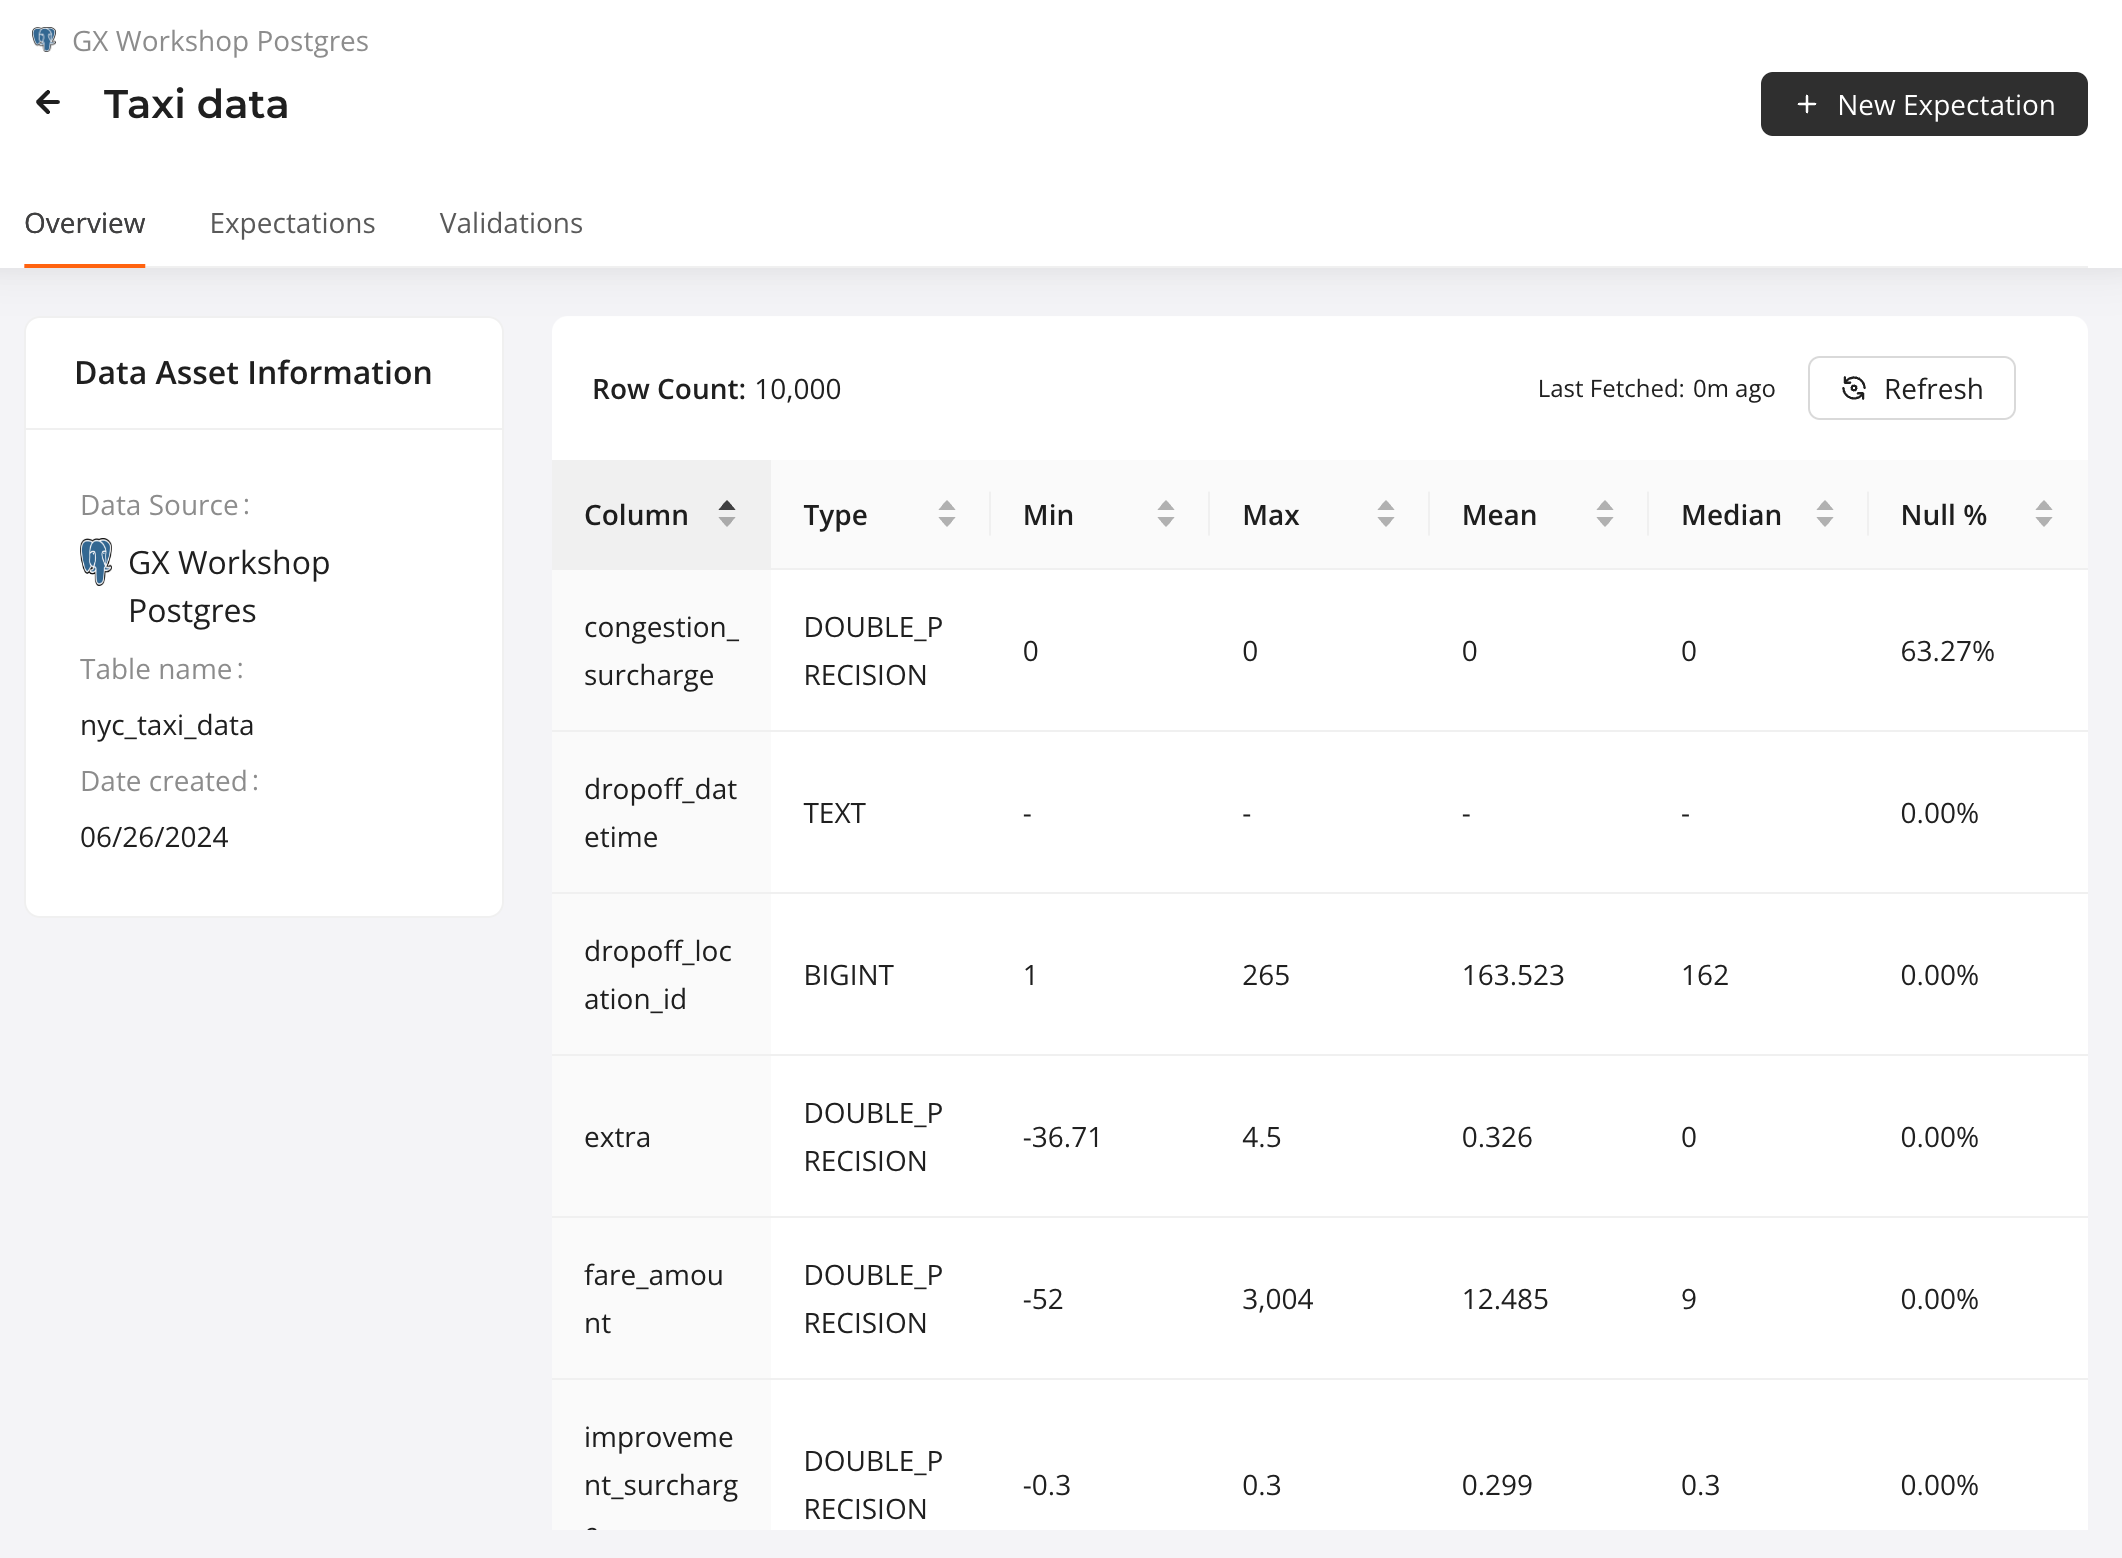
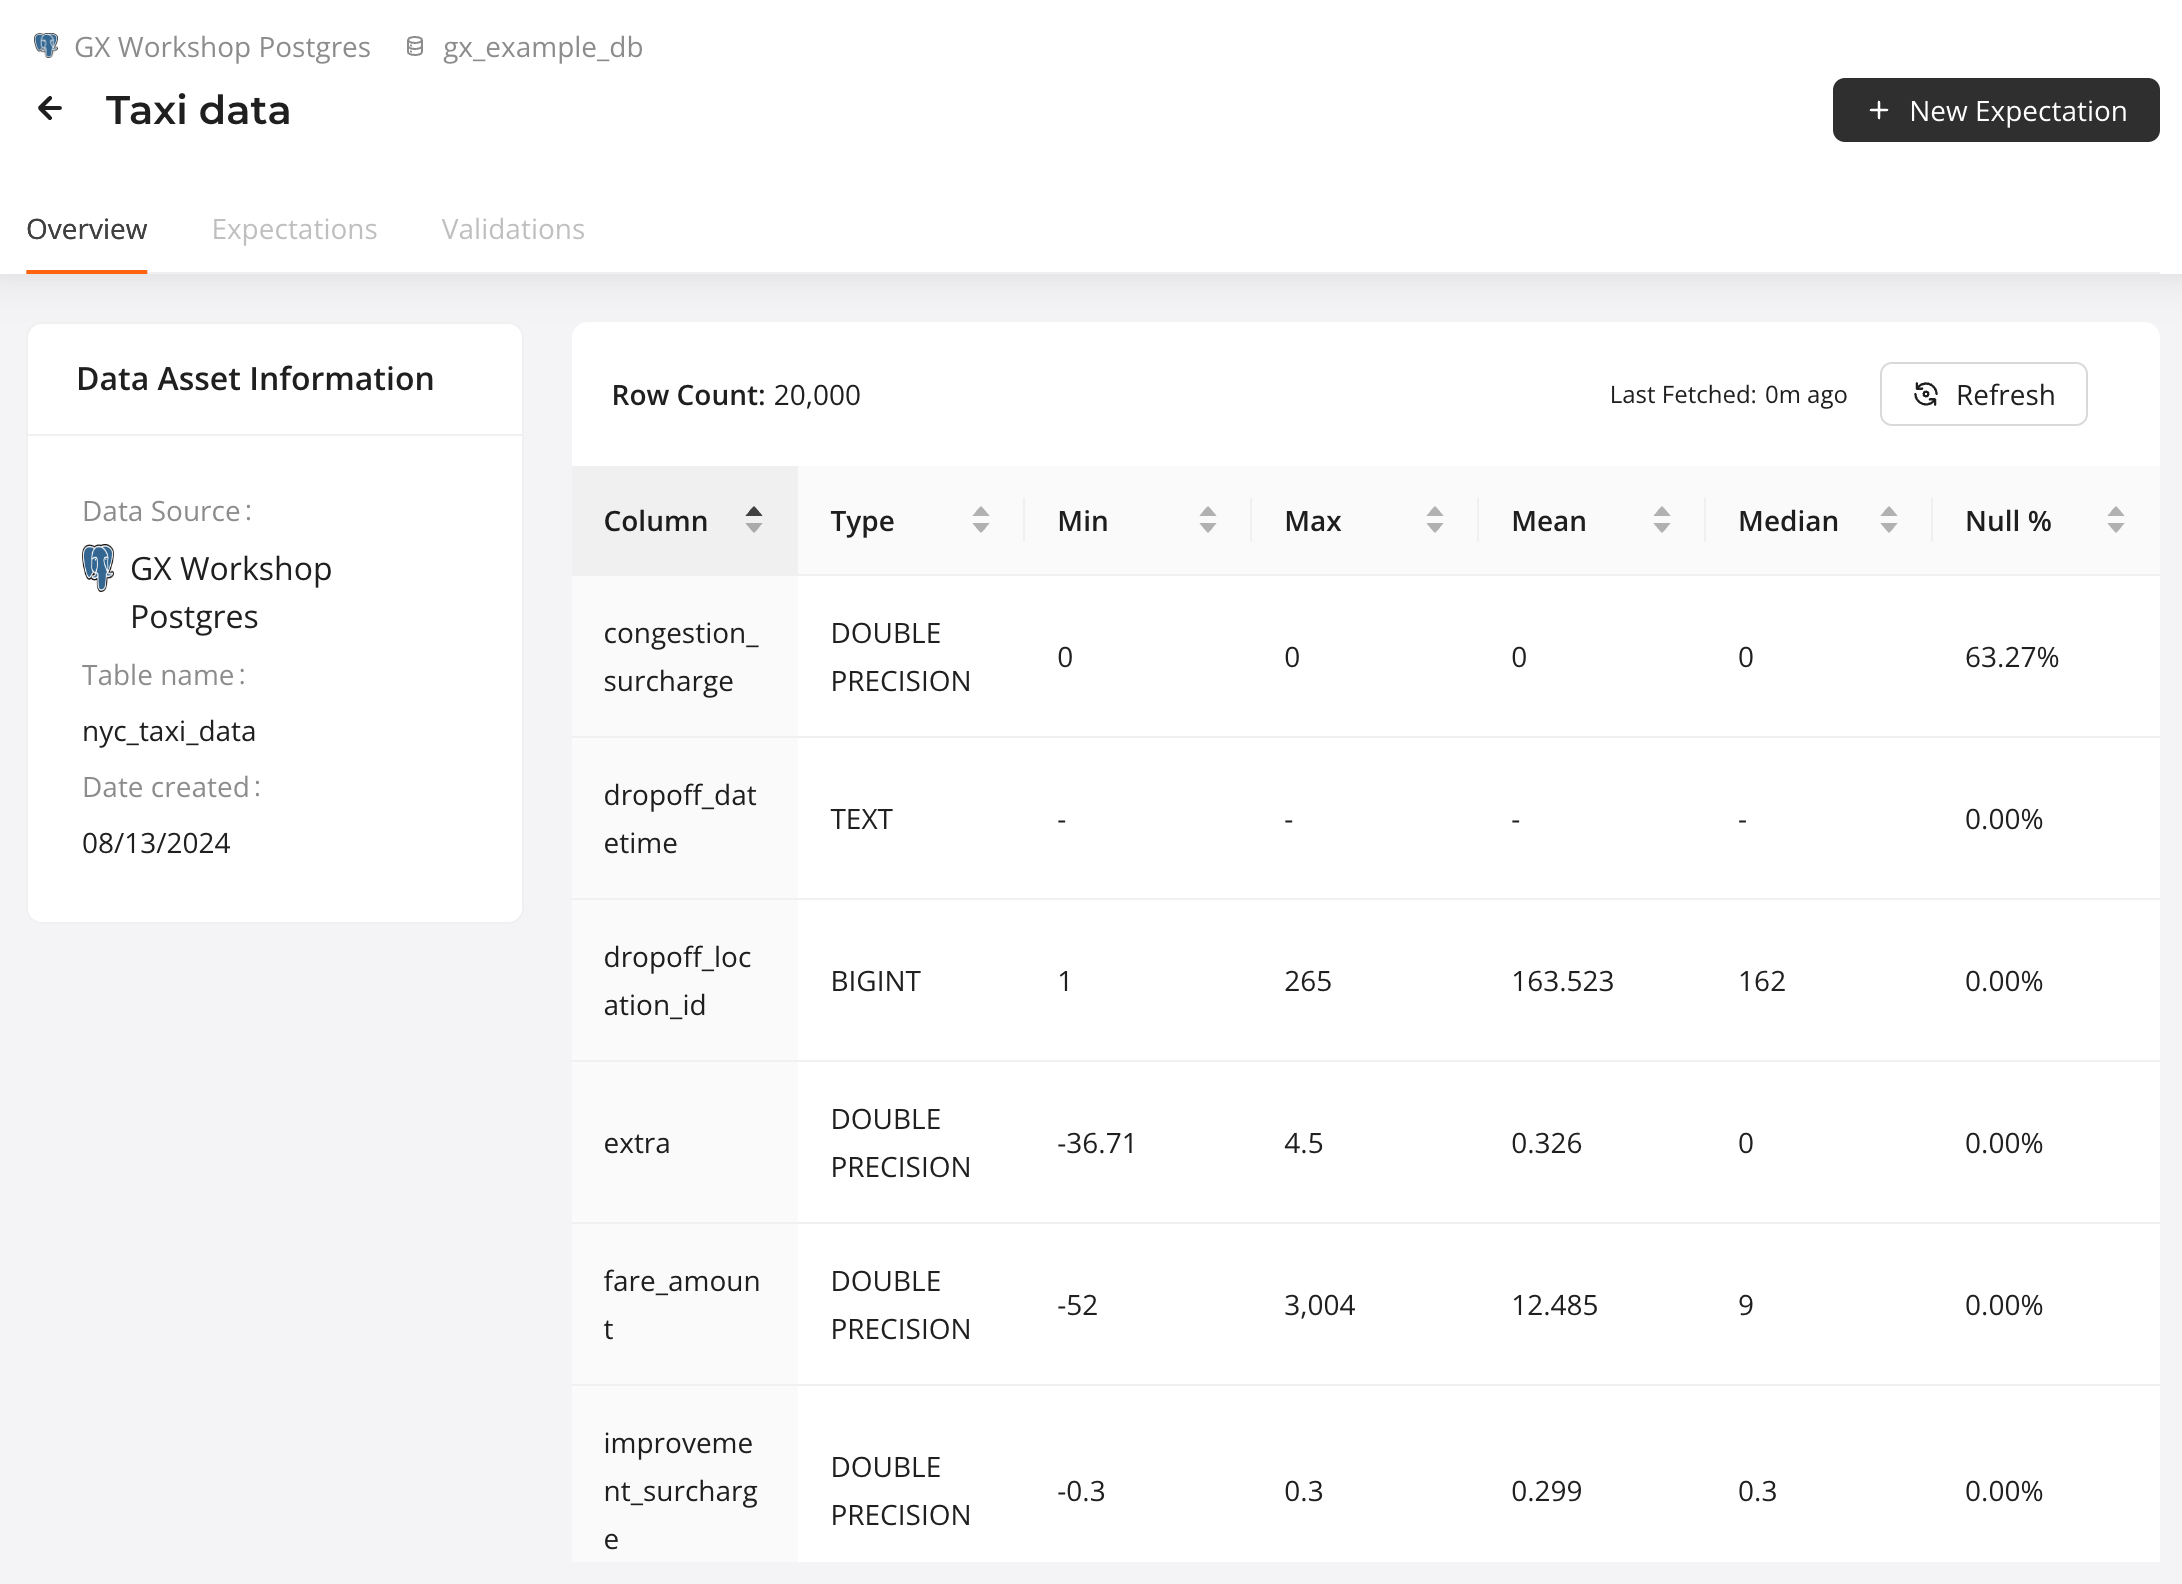
[DSB-1041] - update for latest GX Cloud
This commit updates the Postgres workshop to reflect changes in the
latest GX Cloud UI and product features.

diff --git a/get_started_with_gx_cloud_and_postgres/workshop.md b/get_started_with_gx_cloud_and_postgres/workshop.md
@@ -1,25 +1,23 @@
 # Get Started with GX Cloud and Postgres
 
-*This workshop content is current as of 26 June 2024.*
+*This workshop content is current as of 13 August 2024.*
 
 Welcome to our workshop! In this workshop, you'll learn how to connect your GX Cloud account to a Postgres Data Source, create Expectations, and run Validations.
 
 ## Prerequisites
 - A [GX Cloud](https://hubl.li/Q02ng2Jx0) account with Admin or Editor permissions.
-- [Docker Desktop](https://docs.docker.com/get-docker/) installed and [running](https://docs.docker.com/config/daemon/troubleshoot/#check-whether-docker-is-running) on the computer you're using for the workshop.
 - [git](https://git-scm.com/) installed on the computer you're using for this workshop.
+- A publicly accessible PostgreSQL database.
 
 ## Agenda
 You'll complete the following tasks in this workshop:
 
 1. [Sign in to GX Cloud](#sign-in-to-gx-cloud)
-1. [Run the GX Agent and Postgres database](#run-the-gx-agent-and-postgres-database)
 1. [Create a Postgres Data Source and Data Asset](#create-a-postgres-data-source-and-data-asset)
 1. [Create Expectations](#create-expectations)
 1. [Validate Expectations](#validate-a-data-asset)
 1. [Update the failing Expectation and run the Validation again](#update-the-failing-expectation-and-run-the-validation-again)
 1. [Fetch Metrics](#fetch-metrics)
-
 
 ## GX terminology
 If you're new to GX, an understanding of the following [GX terminology](https://docs.greatexpectations.io/docs/reference/learn/glossary#) will be helpful as you complete this workshop.
@@ -29,52 +27,8 @@ If you're new to GX, an understanding of the following [GX terminology](https://
 ## Sign in to GX Cloud
 Sign in to [GX Cloud](https://hubl.li/Q02ng2Jx0).
 
-## Run the GX Agent and Postgres database
-The GX Agent is an intermediary between GX Cloud and your data stores. GX Cloud does not connect directly to your data; all data access occurs within the GX Agent. The GX Agent receives jobs from GX Cloud, executes these jobs against your data, and then sends the job results back to GX Cloud. The GX Agent runs in an environment where it has access to your data. Today, you'll run it on your local machine using Docker.
-
-To learn more about the GX Agent and how it works with GX Cloud, [see our GX Cloud architecture documentation](https://docs.greatexpectations.io/docs/cloud/about_gx#gx-cloud-architecture).
-
-### Get your user access token and organization identifier
-To allow the GX Agent to connect to your GX Cloud organization, you need to supply a user access token and organization identifier.
-
-If you are logging into GX Cloud for the first time, you will be presented with the following screen:
-<img src="../common/img/gx_agent_setup_splash_screen.png" alt="GX Agent setup splash screen" style="width:600px;"><br>
-
-You will use these values in the next step.
-
-1. Copy the value in the **Access token** field and store it in a safe location.
-1. Copy the value in the **Organization ID** field and store it with the user access token.
-
-### Start the GX Agent
-You will use Docker Compose to start and run the GX Agent and Postgres database.
-
-**Run the GX Agent and Postgres database using Docker Compose**
-> 1. Clone this workshop repo to your local machine.
->  ```bash
-> git clone https://github.com/greatexpectationslabs/workshops.git
-> ```
-> 2. `cd` to the `get_started_with_gx_cloud_and_postgres` subdirectory of the cloned repo.
-> 3. Using the following  command, replace `<your-organization-id>` and `<your_access-token>` with the values of your GX Cloud organization ID and access token, respectively from earlier. Execute this command in your terminal.
->  ```bash
-> GX_CLOUD_ORGANIZATION_ID="<your-organization-id>" GX_CLOUD_ACCESS_TOKEN="<your-access-token>" docker compose up
-> ```
->
-> :warning: If you are running Docker on Windows, use the following command instead to correctly set the environment variables:
-> ```bash
-> set GX_CLOUD_ORGANIZATION_ID="<your-organization-id>" && set GX_CLOUD_ACCESS_TOKEN="<your-access-token>" && docker compose up
-> ```
-
-Before starting the GX Agent, Docker will download the latest GX Agent and Postgres image. This might take a few minutes. When it is done, the Docker Compose output in your terminal displays `The GX Agent is ready`.
-
-<img src="img/docker_compose_gx_agent_is_ready.png" alt="Running and ready GX Agent" style="width:500px;"/><br>
-
-Additionally, you will see the Active Agent indicator displayed in the GX Cloud menu.
-
-<img src="../common/img/active_agent_indicator.png" alt="Active Agent indicator" style="width:200px;"/><br>
-
-
 ## Create a Postgres Data Source and Data Asset
-With the GX Agent running, you can connect to Postgres from GX Cloud (via the GX Agent).
+You'll need to connect to Postgres from GX Cloud. We have set up a publicly available AWS RDS instance for workshop users.
 
 > **Create a Postgres Data Source**
 > 1. In GX Cloud, click **Data Assets** > **New Data Asset**, if this is your first time using GX Cloud, the **Data Assets** page will prompt to create a **Data Source**.
@@ -82,7 +36,7 @@ With the GX Agent running, you can connect to Postgres from GX Cloud (via the GX
 > 1. Click the **I have created a GX Cloud user with access permissions** checkbox (you do not need to create a user for this workshop) and then **Continue**.
 > 1. Configure the PostgreSQL **Data Source** connection:
 >    * In the **Data Source name** field, enter a name. For example, `GX Workshop Postgres`.
->    * In the **Connection string** field, enter `postgresql+psycopg2://example_user@db/gx_example_db`.
+>    * In the **Connection string** field, enter `postgresql+psycopg2://example_user:workshop_example_password@workshops-gx-cloud.cvqgq2g6er9a.us-east-1.rds.amazonaws.com/gx_example_db`
 > 1. Click **Connect**.
 
 <img src="img/pg_data_source_create_user.png" alt="Check the GX Cloud user box" style="width:600px;"/><br>
@@ -90,8 +44,7 @@ With the GX Agent running, you can connect to Postgres from GX Cloud (via the GX
 <img src="img/add_pg_data_source.png" alt="Add a Postgres Data Source" style="width:600px;"/><br>
 
 > **Configure the GX Workshop Postgres Data Asset**
-> 1. In the **Table Name** field, enter `nyc_taxi_data`.
-> 1. In the **Data Asset name** field, give your data Asset a name. For example, `Taxi data`.
+> 1. On the **Select tables to import** page, check the box next to `nyc_taxi_data`.
 > 1. Click **Finish**.
 
 <img src="img/add_pg_data_asset.png" alt="Add a Postgres Data Source" style="width:600px;"/><br>
@@ -101,7 +54,7 @@ Congratulations! You have successfully added a Postgres Data Asset to your GX Cl
 ## Create Expectations
 Expectations are a unique GX construct that enable you to make simple, declarative assertions about your data. You can think of Expectations as unit tests for your data. They make implicit assumptions about your data explicit, and they use self-explanatory language for describing data. Expectations can help you better understand your data and help you improve data quality.
 
-In GX Cloud, you create Expectations within an Expectation Suite, which is a collection of Expectations.
+In GX Cloud, you create Expectations for the Data Asset.
 
 The Postgres Data Asset table contains New York City (NYC) taxi data from January 2019. The [NYC Taxi data](https://www.nyc.gov/site/tlc/about/tlc-trip-record-data.page) is a popular set of open source data that contains records of completed taxi cab trips in NYC, including information such as pick up and drop off times, the number of passengers, the fare collected, and so on.
 
@@ -112,7 +65,7 @@ You'll create Expectations to validate the taxi data. New Expectations are selec
 Your first Expectation will expect that there is an associated vendor for each taxi trip. You expect that you should not see any null `vendor_id` values.
 
 > **Create your first Expectation**
-> 1. In the **Data Assets** list, click the `Taxi data` Data Asset.
+> 1. In the **Data Assets** list, click the `nyc_taxi_data` Data Asset.
 > 1. Click the **Overview** tab and then **New Expectation**.
 > 1. Click the **Expect Column Values To Not Be Null** Expectation.
 > 1. Create an Expectation that verifies that there is an associated vendor for each taxi trip:
@@ -177,7 +130,7 @@ When you fetch Metrics for a Data Asset, GX Cloud profiles the Data Asset throug
 
 > **Fetch Metrics for a Data Asset**
 > 1. Click the Data Asset **Overview** tab. Basic information about your Data Asset is displayed in the **Data Asset Information** pane.
-> 1. Click the **Profile Data** button.
+> 1. Click the **Fetch Schema** button.
 
 <img src="img/pg_profile_data.png" alt="Profile data button for Postgres Data Asset" style="width:700px;"/><br>
 
